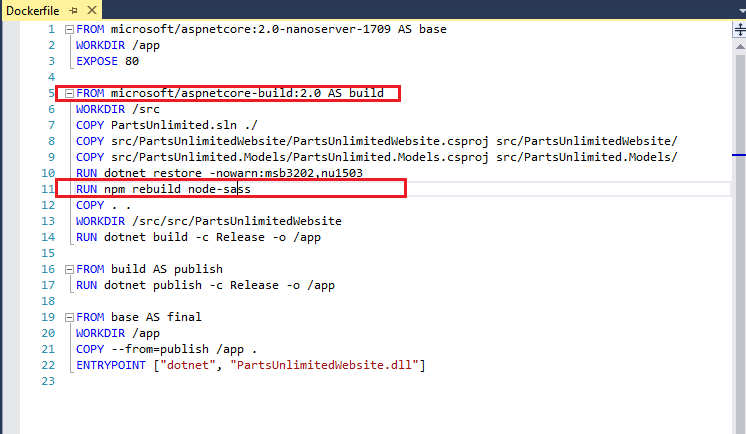
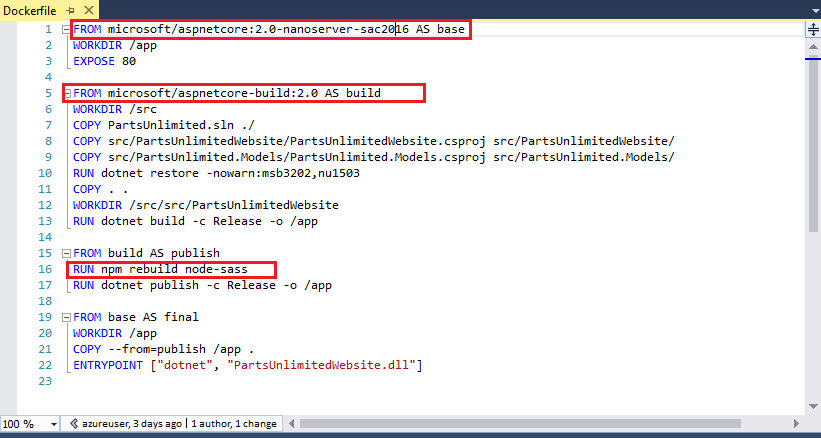
updated container CD lab steps and images

Changed region(s): [[0.0, 0.0, 1.0, 1.0]]

diff --git a/_posts/2018-01-08-200.4x-ConfigMgmt-CDwithWindowsContainersandVSTS.md b/_posts/2018-01-08-200.4x-ConfigMgmt-CDwithWindowsContainersandVSTS.md
@@ -211,7 +211,7 @@ If you do not have a service connection configured in your Azure Devops project 
 
 4. Open the PartsUnlimited solution in Visual studio, you can do so, by opening **Solution Explorer** and double clicking on **PartsUnlimited.sln**.It may take a few minutes as dependencies will be installed, indicated by an yellow warning sign over some folder i.e. under the **PartsUnlimitedWebsite folder\Dependancies**, wait until that has finished, i.e. when the yellow warning sign is no longer present.
 
-    **Note**: You do **not** need to a manual build of the application prior to adding Docker support. If you do build the application you may encounter some errors. You can see details about addressing potential errors and getting the application to successfully build in Visual Studio in the lab <a href="https://microsoft.github.io/PartsUnlimited/pandp/200.1x-PandP-PUsetupwithVS2017.html" target="_blank"><span style="color: #0066cc;" color="#0066cc"> PartsUnlimited Setup with Visual Studio</span></a>Details 
+    **Note**: You do **not** need to a manual build of the application prior to adding Docker support. If you do build the application you may encounter some errors. You can see details about addressing potential errors and getting the application to successfully build in Visual Studio in the lab <a href="https://microsoft.github.io/PartsUnlimited/pandp/200.1x-PandP-PUsetupwithVS2017.html" target="_blank"><span style="color: #0066cc;" color="#0066cc"> PartsUnlimited Setup with Visual Studio</span></a>.
 
 
 
@@ -246,8 +246,18 @@ If you do not have a service connection configured in your Azure Devops project 
     ![](../assets\cdwithcontainersandazdevops-jan2018/vs6.png)
 
 8. Open the file **PartsUnlimitedWebsite\Dockerfile** and make the following changes. 
-    
-    modify **line 5** to read as below. This is because we will build our application within the container and we require a non nano-server container image to successfully build our application.
+
+    modify **line 1** to read as below. We need to use a particular version, as it will run on our build agent which is WS2016 Datacenter with containers, and later versions will not run on this host. See here for <a href="https://docs.microsoft.com/en-us/virtualization/windowscontainers/deploy-containers/version-compatibility" target="_blank"><span style="color: #0066cc;" color="#0066cc"> windows container compatabililty considerations</span></a>
+
+    ```
+    FROM microsoft/aspnetcore:2.0-nanoserver-sac2016 AS base
+    ```
+
+
+    We also need to use a particular version, as it will run on our build agent which is WS2016 Datacenter with containers, and later versions will not run on this host.
+
+
+    modify **line 5** to read as below. This is because we will build our application within the container and we require a non nano-server container image to successfully build our application. We also need to use a particular version, as it will run on our build agent which is WS2016 Datacenter with containers, and later versions will not run on this host. See here for <a href="https://docs.microsoft.com/en-us/virtualization/windowscontainers/deploy-containers/version-compatibility" target="_blank"><span style="color: #0066cc;" color="#0066cc"> windows container compatabililty considerations</span></a>
 
   
     ```
